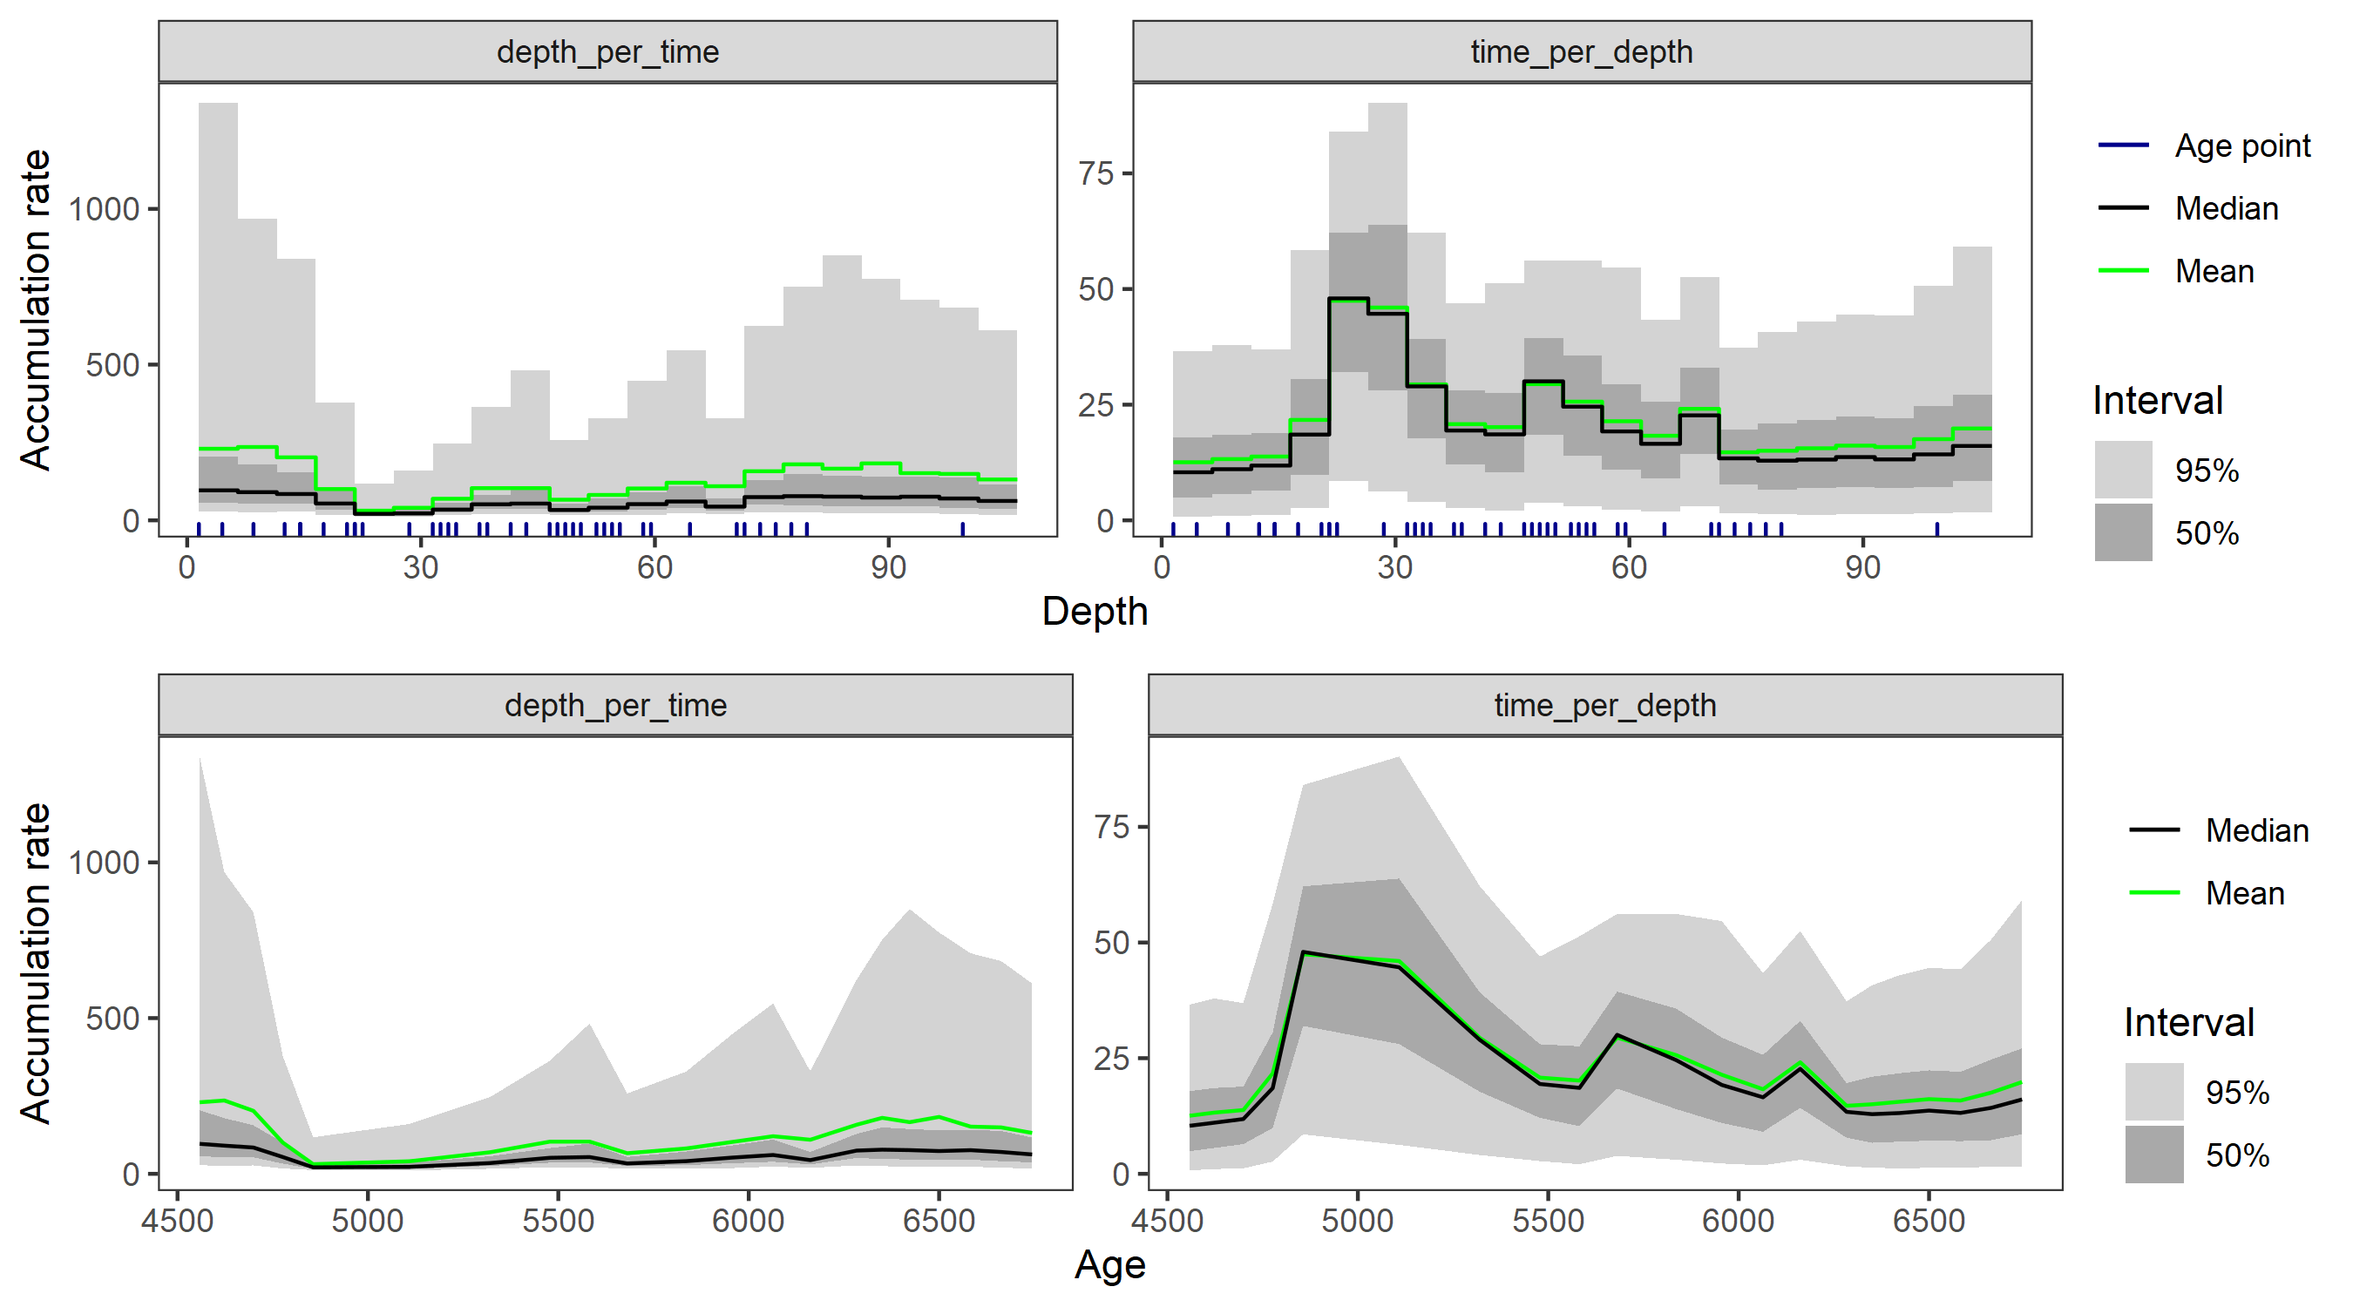
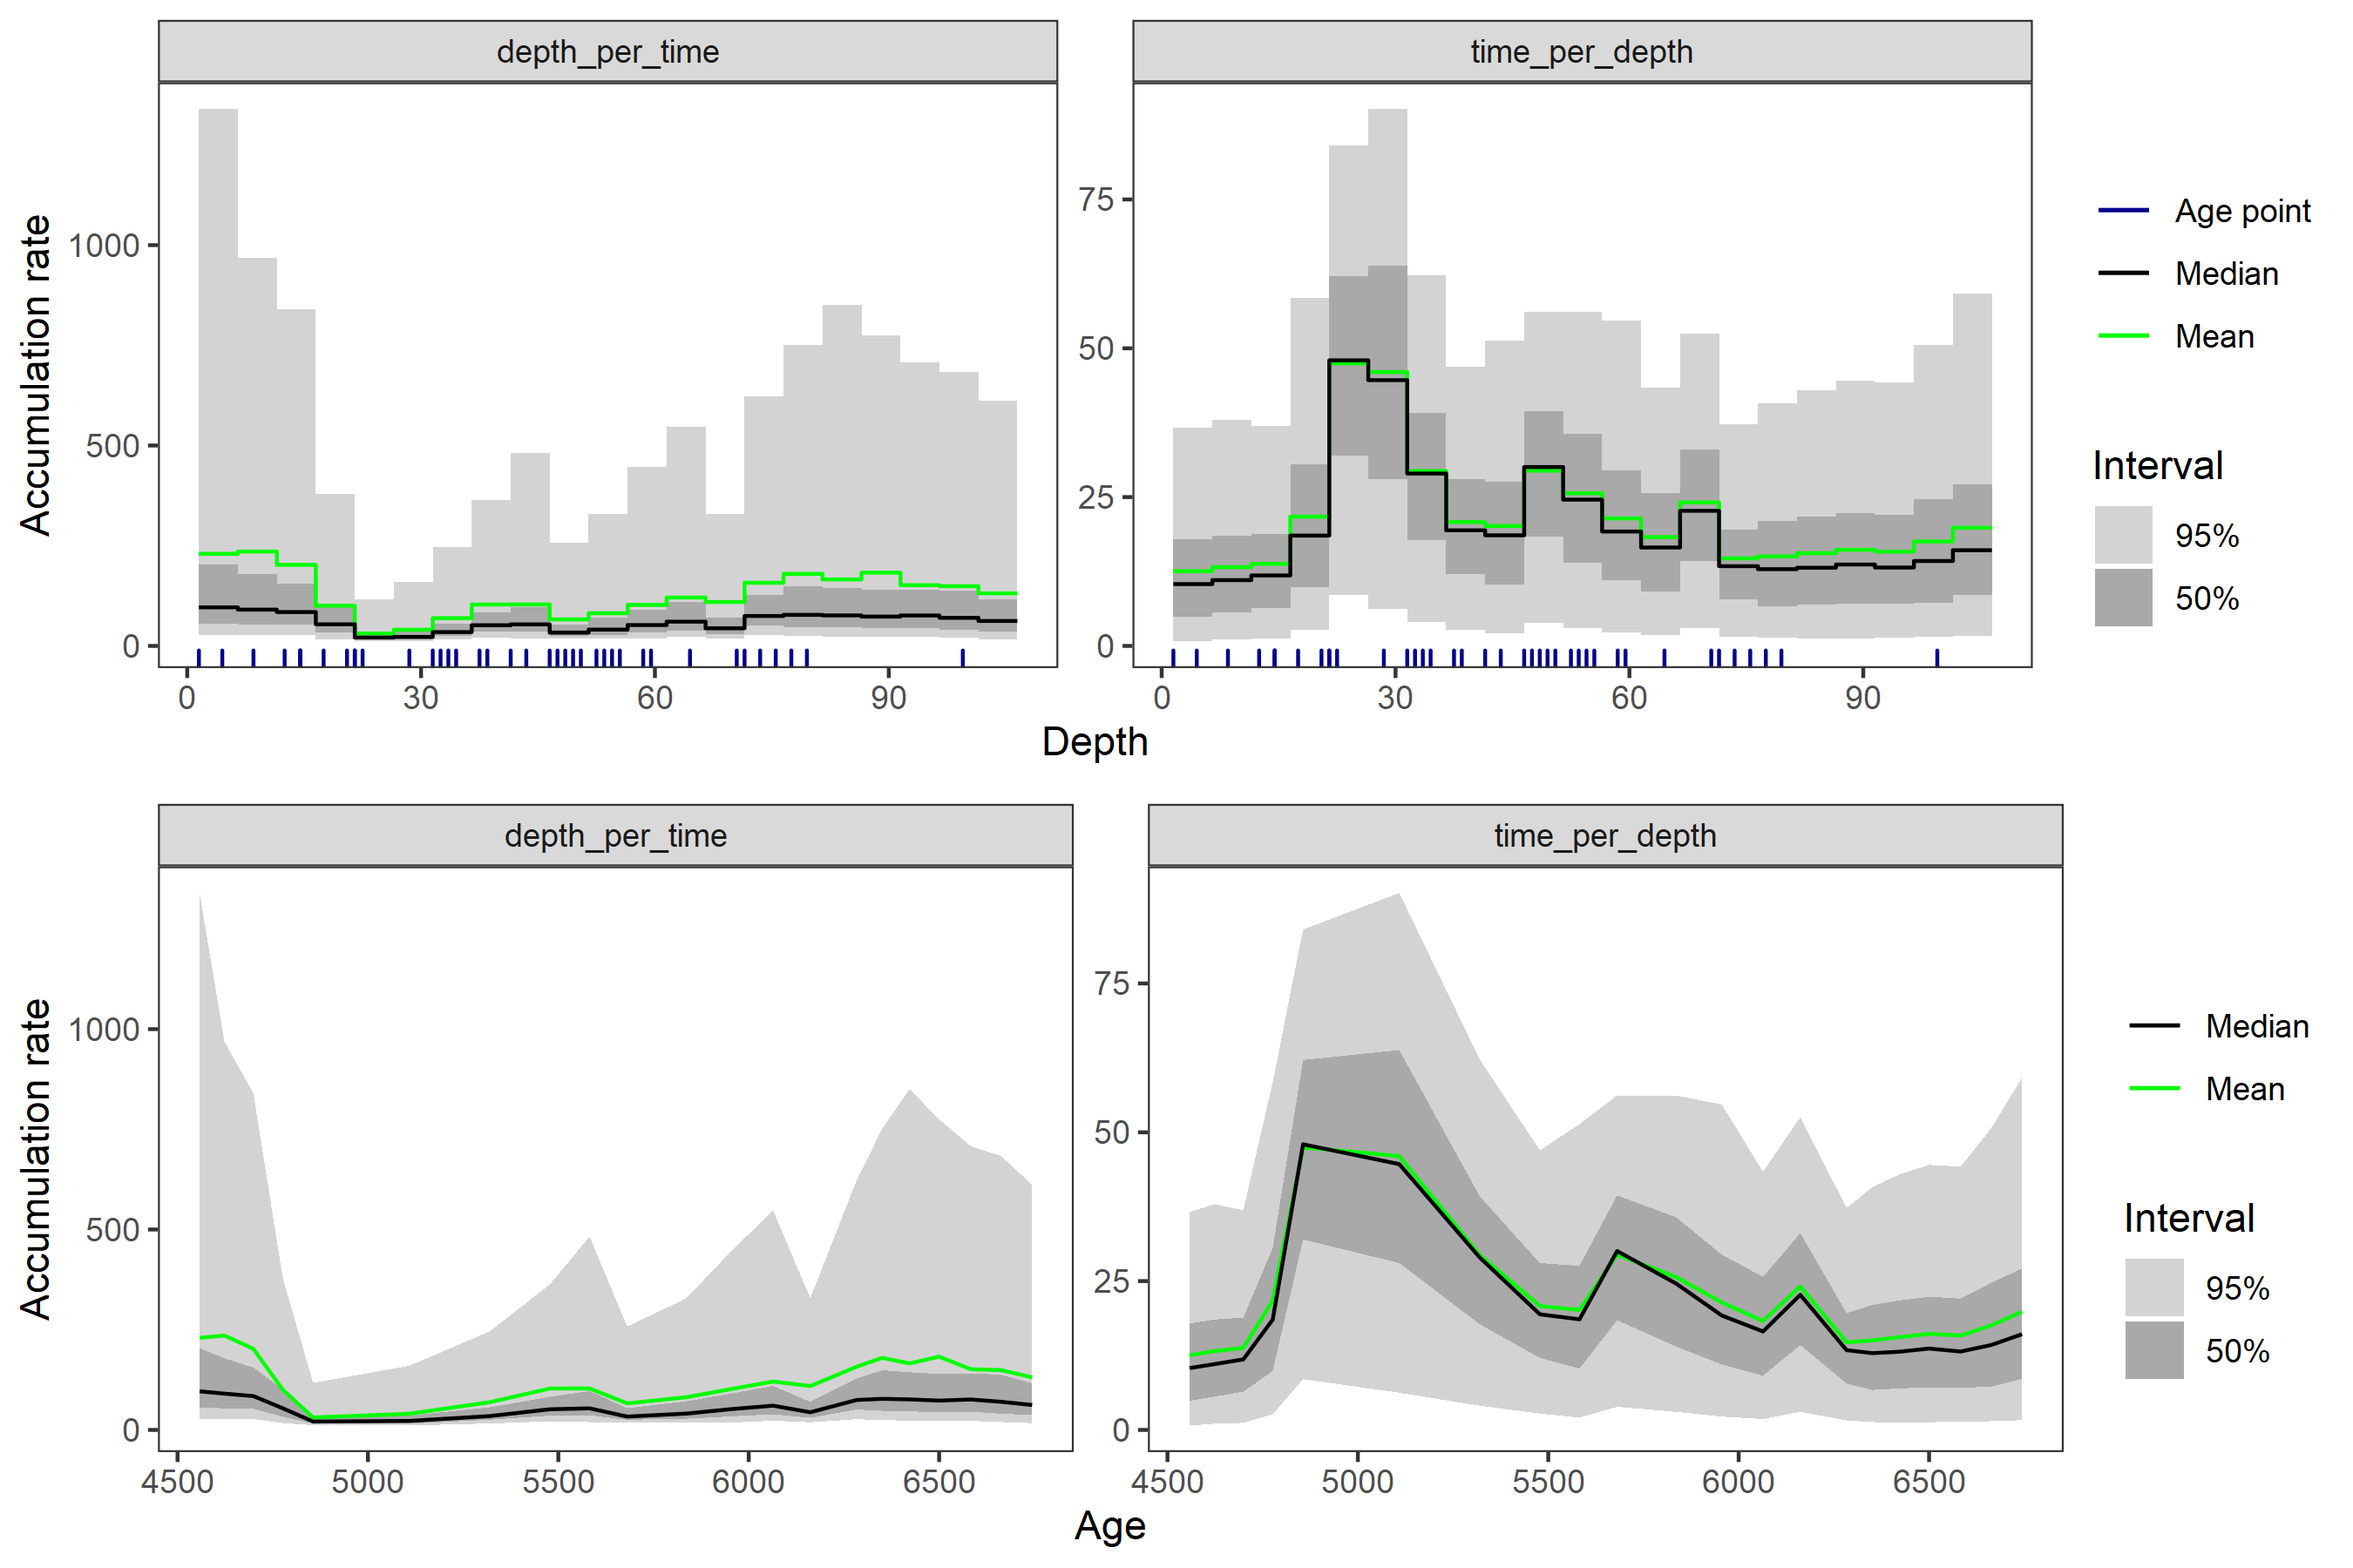
improve the readme

diff --git a/readme.md b/readme.md
@@ -17,33 +17,30 @@ if (!require("remotes")) {
 remotes::install_github("earthsystemdiagnostics/hamstrbacon")
 ```
 
-## Using **hamstr**
+## Fitting age-models with **rbacon** via **hamstrbacon**
 
-Examples using the example core “MSB2K” from the
+Using the example core “MSB2K” from the
 [rbacon](https://cran.r-project.org/web/packages/rbacon/index.html)
 package.
 
 ``` r
 library(hamstrbacon)
-
-set.seed(20200827)
 ```
 
-### Fitting age-models with **rbacon** via **hamstrbacon**
-
 ``` r
-MSB2K <- hamstr::MSB2K
-
 hambac_1 <- hamstr_bacon(id = "tst", 
                          depth = MSB2K$depth,
                          obs_age = MSB2K$age,
                          obs_err = MSB2K$error,
                          thick = 5, cc = 1,
-                         seed = 20220103)
-#> The run's files will be put in this folder: C:\Users\Andrew\AppData\Local\Temp/Rtmp42oaFE
+                         # pass seed to rbacon so that mcmc sample is the same
+                         # each time for the example
+                         seed = 20220103
+                         )
+#> The run's files will be put in this folder: C:\Users\Andrew\AppData\Local\Temp/RtmpcL1Pso
 #> Warning in file(con, "r"): file("") only supports open = "w+" and open = "w+b":
 #> using the former
-#> Reading C:\Users\Andrew\AppData\Local\Temp/Rtmp42oaFE/Rtmp42oaFE_21.bacon
+#> Reading C:\Users\Andrew\AppData\Local\Temp/RtmpcL1Pso/RtmpcL1Pso_21.bacon
 #> Constant calibration curve.
 #> IntCal20: Reading from file: C:\Users\Andrew\Documents\R\win-library\4.1\IntCal\extdata/3Col_intcal20.14C
 #> Marine20: Reading from file: C:\Users\Andrew\Documents\R\win-library\4.1\IntCal\extdata/3Col_marine20.14C
@@ -91,25 +88,29 @@ hambac_1 <- hamstr_bacon(id = "tst",
 #> BaconFixed: Bacon jumps model with fixed c's.
 #>             K=21, H=0, dim=23, Seed=20220103, Dc=5.000000, c(0)=1.500000, c(K)=106.500000
 #> 
-#> twalk:      5060000 iterations to run, Mon Jan 03 12:06:47 2022
+#> twalk:      5060000 iterations to run, Mon Jan 03 12:14:29 2022
 #>        
-#> twalk thinning: 1 out of every 115 accepted iterations will be saved in file C:\Users\Andrew\AppData\Local\Temp/Rtmp42oaFE/Rtmp42oaFE_21.out
-#> twalk: Finished,  0.7% of moved pars per iteration (ratio 35148.956522/5060000). Output in file C:\Users\Andrew\AppData\Local\Temp/Rtmp42oaFE/Rtmp42oaFE_21.out,
-#>       Mon Jan 03 12:07:11 2022
+#> twalk thinning: 1 out of every 115 accepted iterations will be saved in file C:\Users\Andrew\AppData\Local\Temp/RtmpcL1Pso/RtmpcL1Pso_21.out
+#> twalk: Finished,  0.7% of moved pars per iteration (ratio 35148.956522/5060000). Output in file C:\Users\Andrew\AppData\Local\Temp/RtmpcL1Pso/RtmpcL1Pso_21.out,
+#>       Mon Jan 03 12:14:53 2022
 #> 
 #> bacon: burn in (initial iterations which will be removed): 23000
 #> Eso es to...eso es to...eso es to...eso es toooodo amigos!
 #> Warning in file.remove(i): cannot remove file 'C:
-#> \Users\Andrew\AppData\Local\Temp/Rtmp42oaFE/Rtmp42oaFE_21.bacon', reason
+#> \Users\Andrew\AppData\Local\Temp/RtmpcL1Pso/RtmpcL1Pso_21.bacon', reason
 #> 'Permission denied'
-#> Previous runs of core Rtmp42oaFE with thick=5 cm deleted. Now try running the core again
+#> Previous runs of core RtmpcL1Pso with thick=5 cm deleted. Now try running the core again
 ```
+
+### Plot the Bacon model with hamstr plotting functions
 
 ``` r
 plot(hambac_1)
 ```
 
 ![](readme_files/figure-gfm/unnamed-chunk-3-1.png)<!-- -->
+
+### Extract summary downcore age-depth model
 
 ``` r
 summary(hambac_1)
@@ -129,6 +130,8 @@ summary(hambac_1)
 #> # ... with 12 more rows
 ```
 
+### Get the individual model realisations
+
 ``` r
 predict(hambac_1)
 #> # A tibble: 60,544 x 3
@@ -147,6 +150,8 @@ predict(hambac_1)
 #> # ... with 60,534 more rows
 ```
 
+### Plot the accumulation rates
+
 ``` r
 plot(hambac_1, type = "acc")
 #> Joining, by = "depth"
@@ -154,8 +159,17 @@ plot(hambac_1, type = "acc")
 
 ![](readme_files/figure-gfm/unnamed-chunk-6-1.png)<!-- -->
 
-If you want specific depths you can ask for them and the age models will
-be linearly interpolated
+Smooth the accumulation rates with 10 cm filter before calculating the
+statistics
+
+``` r
+plot(hambac_1, type = "acc", tau = 10)
+#> Joining, by = "depth"
+```
+
+![](readme_files/figure-gfm/unnamed-chunk-7-1.png)<!-- -->
+
+### Get the ages interpolated at specific depths
 
 ``` r
 spec_depths <- predict(hambac_1, depth = c(10:15))
